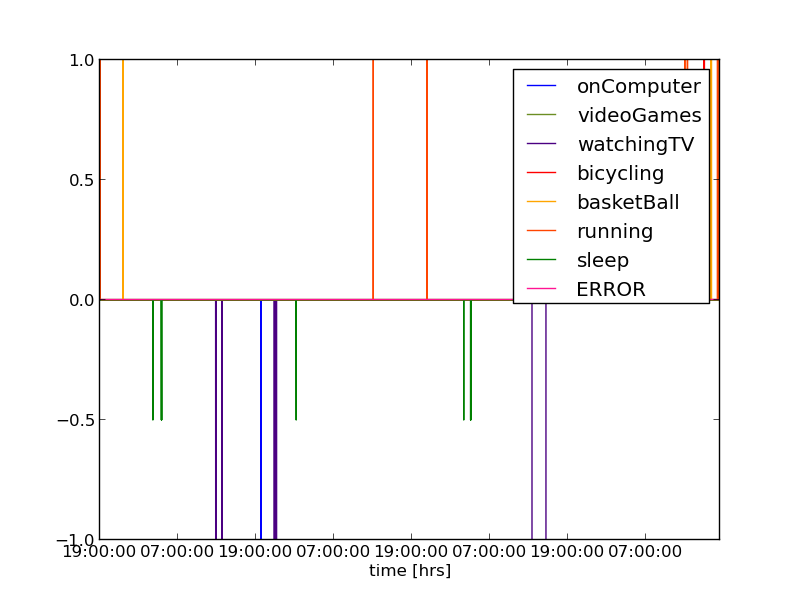
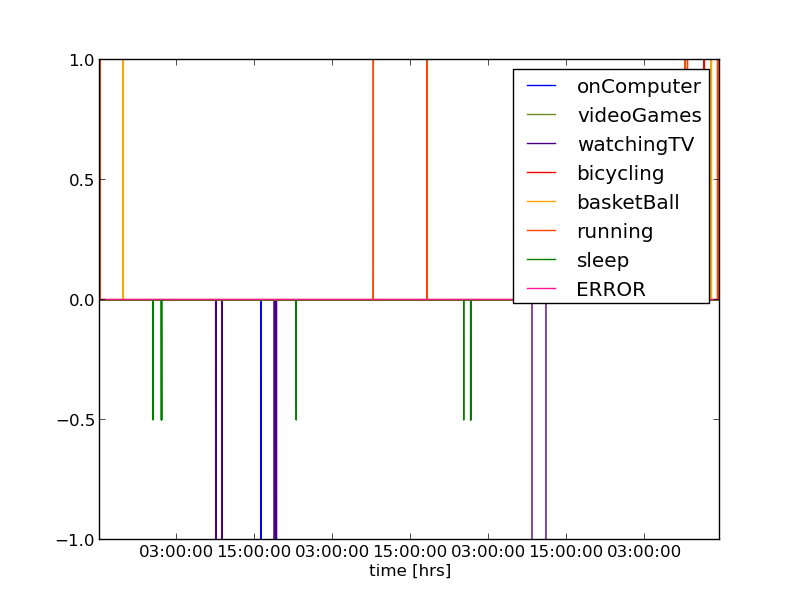
fixed time mismatching and attempted to fix issue#1

Changed region(s): [[0.0625, 0.9, 0.8438, 0.93]]

diff --git a/src/interaction_x_PA/scatterPlot.py b/src/interaction_x_PA/scatterPlot.py
@@ -11,15 +11,16 @@ from ..interaction.timeSeries.multicolorBars import data as interactionData
 # load interaction data
 interact = interactionData()
 interact.getData(viewFileLoc)
-
 # generate interaction 'score'
 interactScore = list()
+interactDate   = list()
 # gather data from timestamps in interact.x together by day
 i = 0
 while i+1 < len(interact.x)-1:
 	score = 0
 	print str(interact.x[i].date()) +'=?='+str(interact.x[i+1].date())
 	while interact.x[i].date() == interact.x[i+1].date(): # count up all in same day
+		date = interact.x[i].date()
 		print str(i)
 		score += interact.a1[i]+interact.a2[i]+interact.a3[i]-(interact.p1[i]+interact.p2[i]+interact.p3[i])
 		i+=1
@@ -29,25 +30,35 @@ while i+1 < len(interact.x)-1:
 	i+=1
 	# now score is day's total, add it to the list
 	interactScore.append(score)
+	interactDate.append(date)
 
 
 # load PA data
 PA = PAdata()
 PA.getData(PAfileLoc)
-
 # generate daily PA 'score'
 PAscore = list()
-for i in range(len(PA.time)):
+PAdate  = list()
+for i in range(0,len(PA.time)):
 	PAscore.append(2*PA.mod_vig[i]+PA.light[i]-PA.sedentary[i])
+	PAdate.append(PA.time[i])
+PAscore = PAscore[::-1]	#invert the list to match interaction data
+PAdate  = PAdate[::-1]
 
+# data check
 print 'output is ' + str(len(PAscore)) + 'x' + str(len(interactScore))
 
 while len(PAscore) > len(interactScore):
-	print 'appending zero value to fix impbalance'
+	print 'ERR:appending zero to interactScore to fix imbalance'
 	interactScore.append(0)
 while len(interactScore) > len(PAscore):
 	PAscore.append(0)
-	print 'appending zero value to fix impbalance'
+	print 'ERR:appending zero value to PAscore to fix imbalance'
+
+if interactDate[0] != PAdate[0].date():
+	print 'ERR: day mismatch: '+str(interactDate[0])+' != '+str(PAdate[0])+'!!!\n'
+	print str(interactDate)+'\n'
+	print str(PAdate)+'\n'
 
 def plot():
 	pltName = 'PA vs interaction'

diff --git a/src/interaction/timeSeries/multicolorBars.py b/src/interaction/timeSeries/multicolorBars.py
@@ -73,7 +73,6 @@ class data:
 		print "loading", viewFileLoc
 		with open(viewFileLoc, 'rb') as csvfile:
 			spamreader = csv.reader(csvfile, delimiter=',')
-
 			for row in spamreader:
 				if self.rowCount==0:	#skip header row
 					self.rowCount+=1
@@ -83,8 +82,8 @@ class data:
 				self.rowCount+=1
 				# print ', '.join(row)	# print the raw data
 				# print row		# print raw data matrix
-				t0 = int(round(int(row[0])/div)-startTime)
-				tf = int(round(int(row[1])/div)-startTime)
+				t0 = int(round(int(row[0])/div))
+				tf = int(round(int(row[1])/div))
 				self.logPoint(t0-1,0,0) # 0 before
 				self.logPoint(t0,row[3],1) #value @ start
 				self.logPoint(tf,row[3],1) #value @ end

diff --git a/src/settings.py b/src/settings.py
@@ -24,7 +24,7 @@ def setupParticipantData(n):
 		
 
 setupTestData(1)
-setupParticipantData(1)
+#setupParticipantData(1)
 
 viewFileLoc = dataLocation+pid+'/'+viewLogFile;
 PAfileLoc   = dataLocation+pid+'/'+PAfile;
